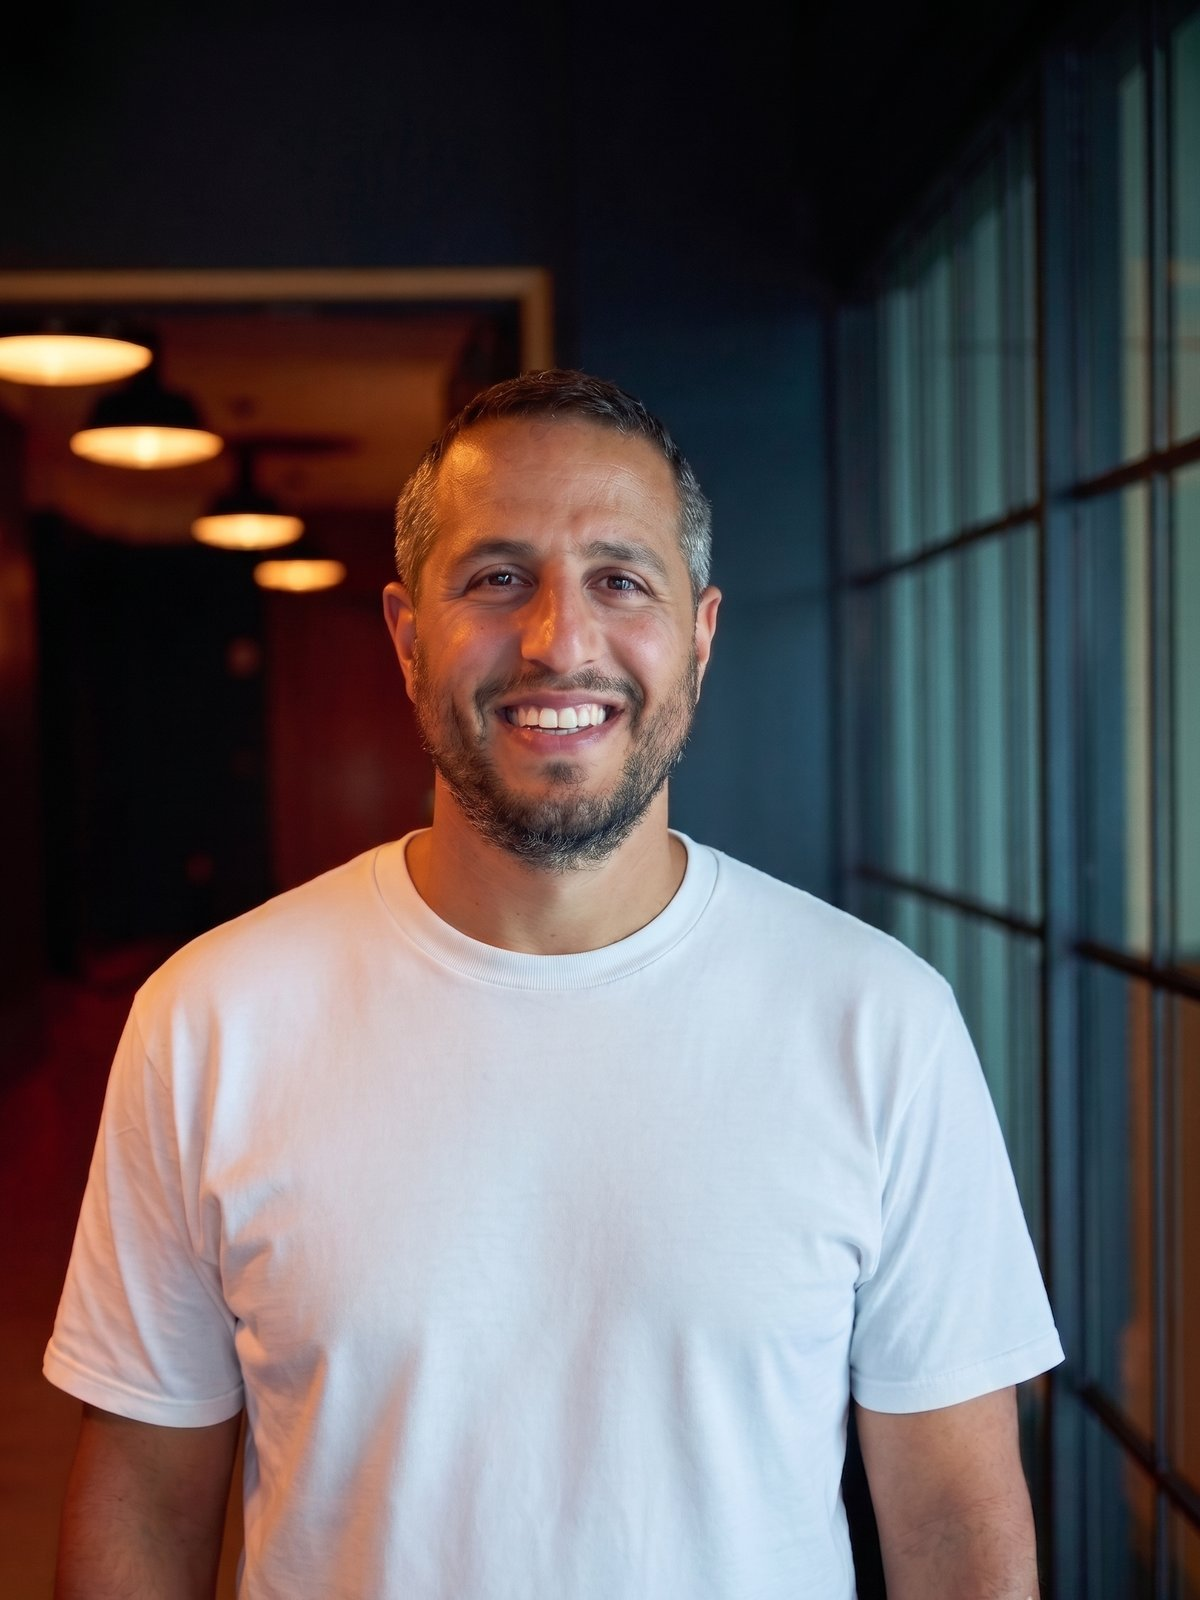
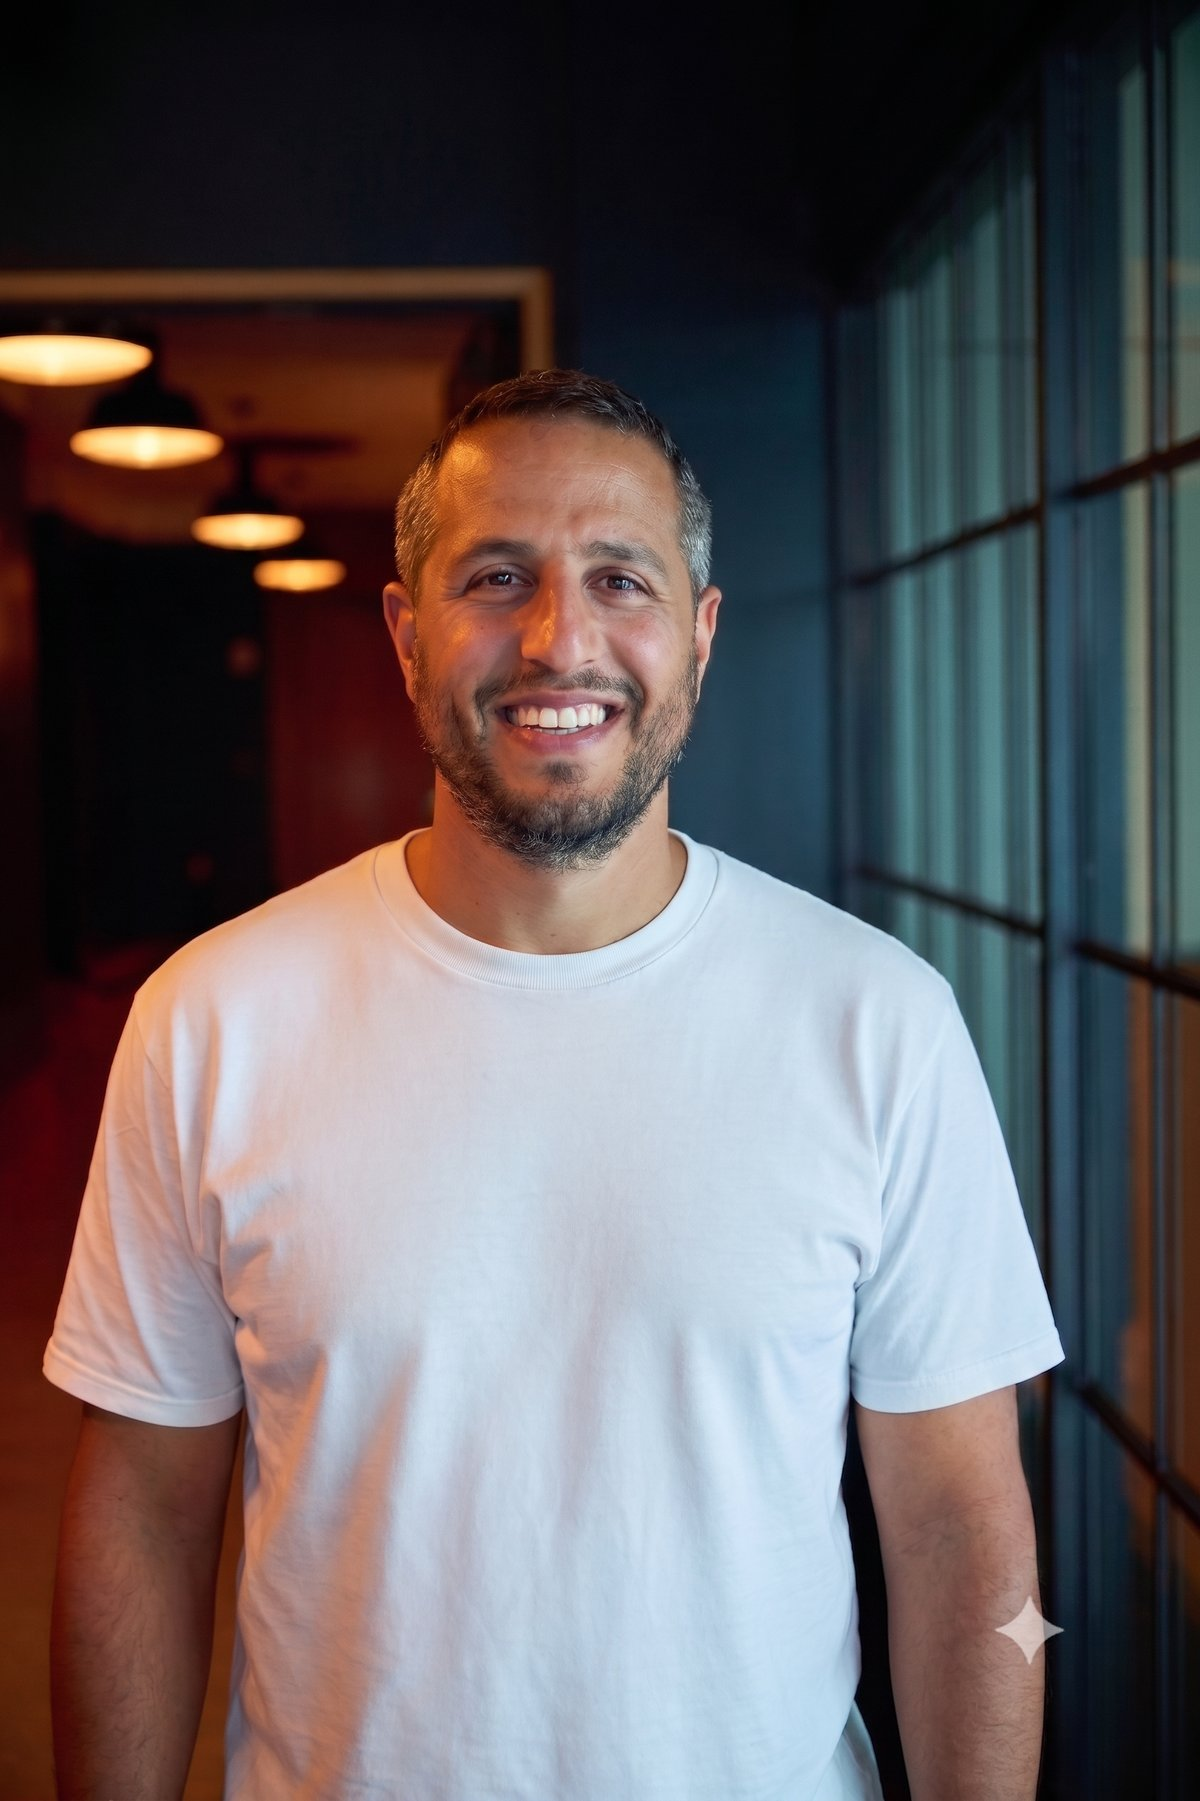
Show the full uncropped portrait in the hero
Regenerate tom-headshot.jpg from the complete source image (1200x1801,
native 2:3 ratio) instead of a 3:4 crop, and drop the aspect-ratio /
object-fit rules that were cropping it at render time so the photo
displays whole at both desktop and mobile breakpoints.

Claude-Session: https://claude.ai/code/session_01TnH1fcVtUYoRSwhzsA6jtM

diff --git a/index.html b/index.html
@@ -186,9 +186,7 @@
         .hero-photo {
             width: 100%;
             max-width: 500px;
-            aspect-ratio: 3 / 4;
-            object-fit: cover;
-            object-position: center top;
+            height: auto;
             border-radius: 2px;
             display: block;
         }
@@ -957,7 +955,7 @@
             .hero-photo {
                 max-width: 100%;
                 width: 100%;
-                aspect-ratio: 3 / 4;
+                height: auto;
                 margin: 0;
             }
             section { padding: 64px 24px; }
@@ -1031,7 +1029,7 @@
     <!-- Hero -->
     <div class="hero-wrapper">
         <header class="hero">
-            <img src="tom-headshot.jpg" alt="Tom Saliba" class="hero-photo" width="1200" height="1600" fetchpriority="high">
+            <img src="tom-headshot.jpg" alt="Tom Saliba" class="hero-photo" width="1200" height="1801" fetchpriority="high">
             <div class="hero-text">
                 <div class="hero-credential">Merchandising Consultant · P&amp;L Turnarounds · Interim Leadership</div>
                 <h1>Merchandising that moves the P&amp;L.</h1>

diff --git a/CONTENT-CHECKLIST.md b/CONTENT-CHECKLIST.md
@@ -4,7 +4,7 @@ The copy is now drawn from Tom's CV (Thomas Alexander Saliba, Merchandising Dire
 
 ## Still needed before launch
 
-- [x] **Editorial portrait** — done. `tom-headshot.jpg` (1200×1600, 3:4) is live in the hero and matches the Open Graph/Twitter image tags. Source file: `Gemini_Generated_Image_96lp2296lp2296lp.png`.
+- [x] **Editorial portrait** — done. `tom-headshot.jpg` (1200×1801, full uncropped portrait) is live in the hero and matches the Open Graph/Twitter image tags. Source file: `Gemini_Generated_Image_96lp2296lp2296lp.png`.
 - [ ] **LinkedIn URL** — three places: contact section, footer, and a `sameAs` array worth adding to the JSON-LD Person schema in `<head>`.
 - [ ] **Confirm the contact email** — currently `saliba_t@hotmail.com` (from the CV), used in the contact link and the form's error message. A `tom@tomsaliba.com` address would look sharper once the domain exists.
 - [ ] **Tom's sign-off on the copy** — especially two things. First, the Track Record numbers (revenue turnaround, Bonmarché growth, DSGN Studio forecast) since they're now public claims. Second, the consultant positioning itself: the site presents Tom as a merchandising consultant offering turnarounds, capability builds, and interim leadership, while his CV shows a current permanent role at Boohoo/Debenhams Group — Tom should confirm he's comfortable advertising consulting services publicly before launch.
